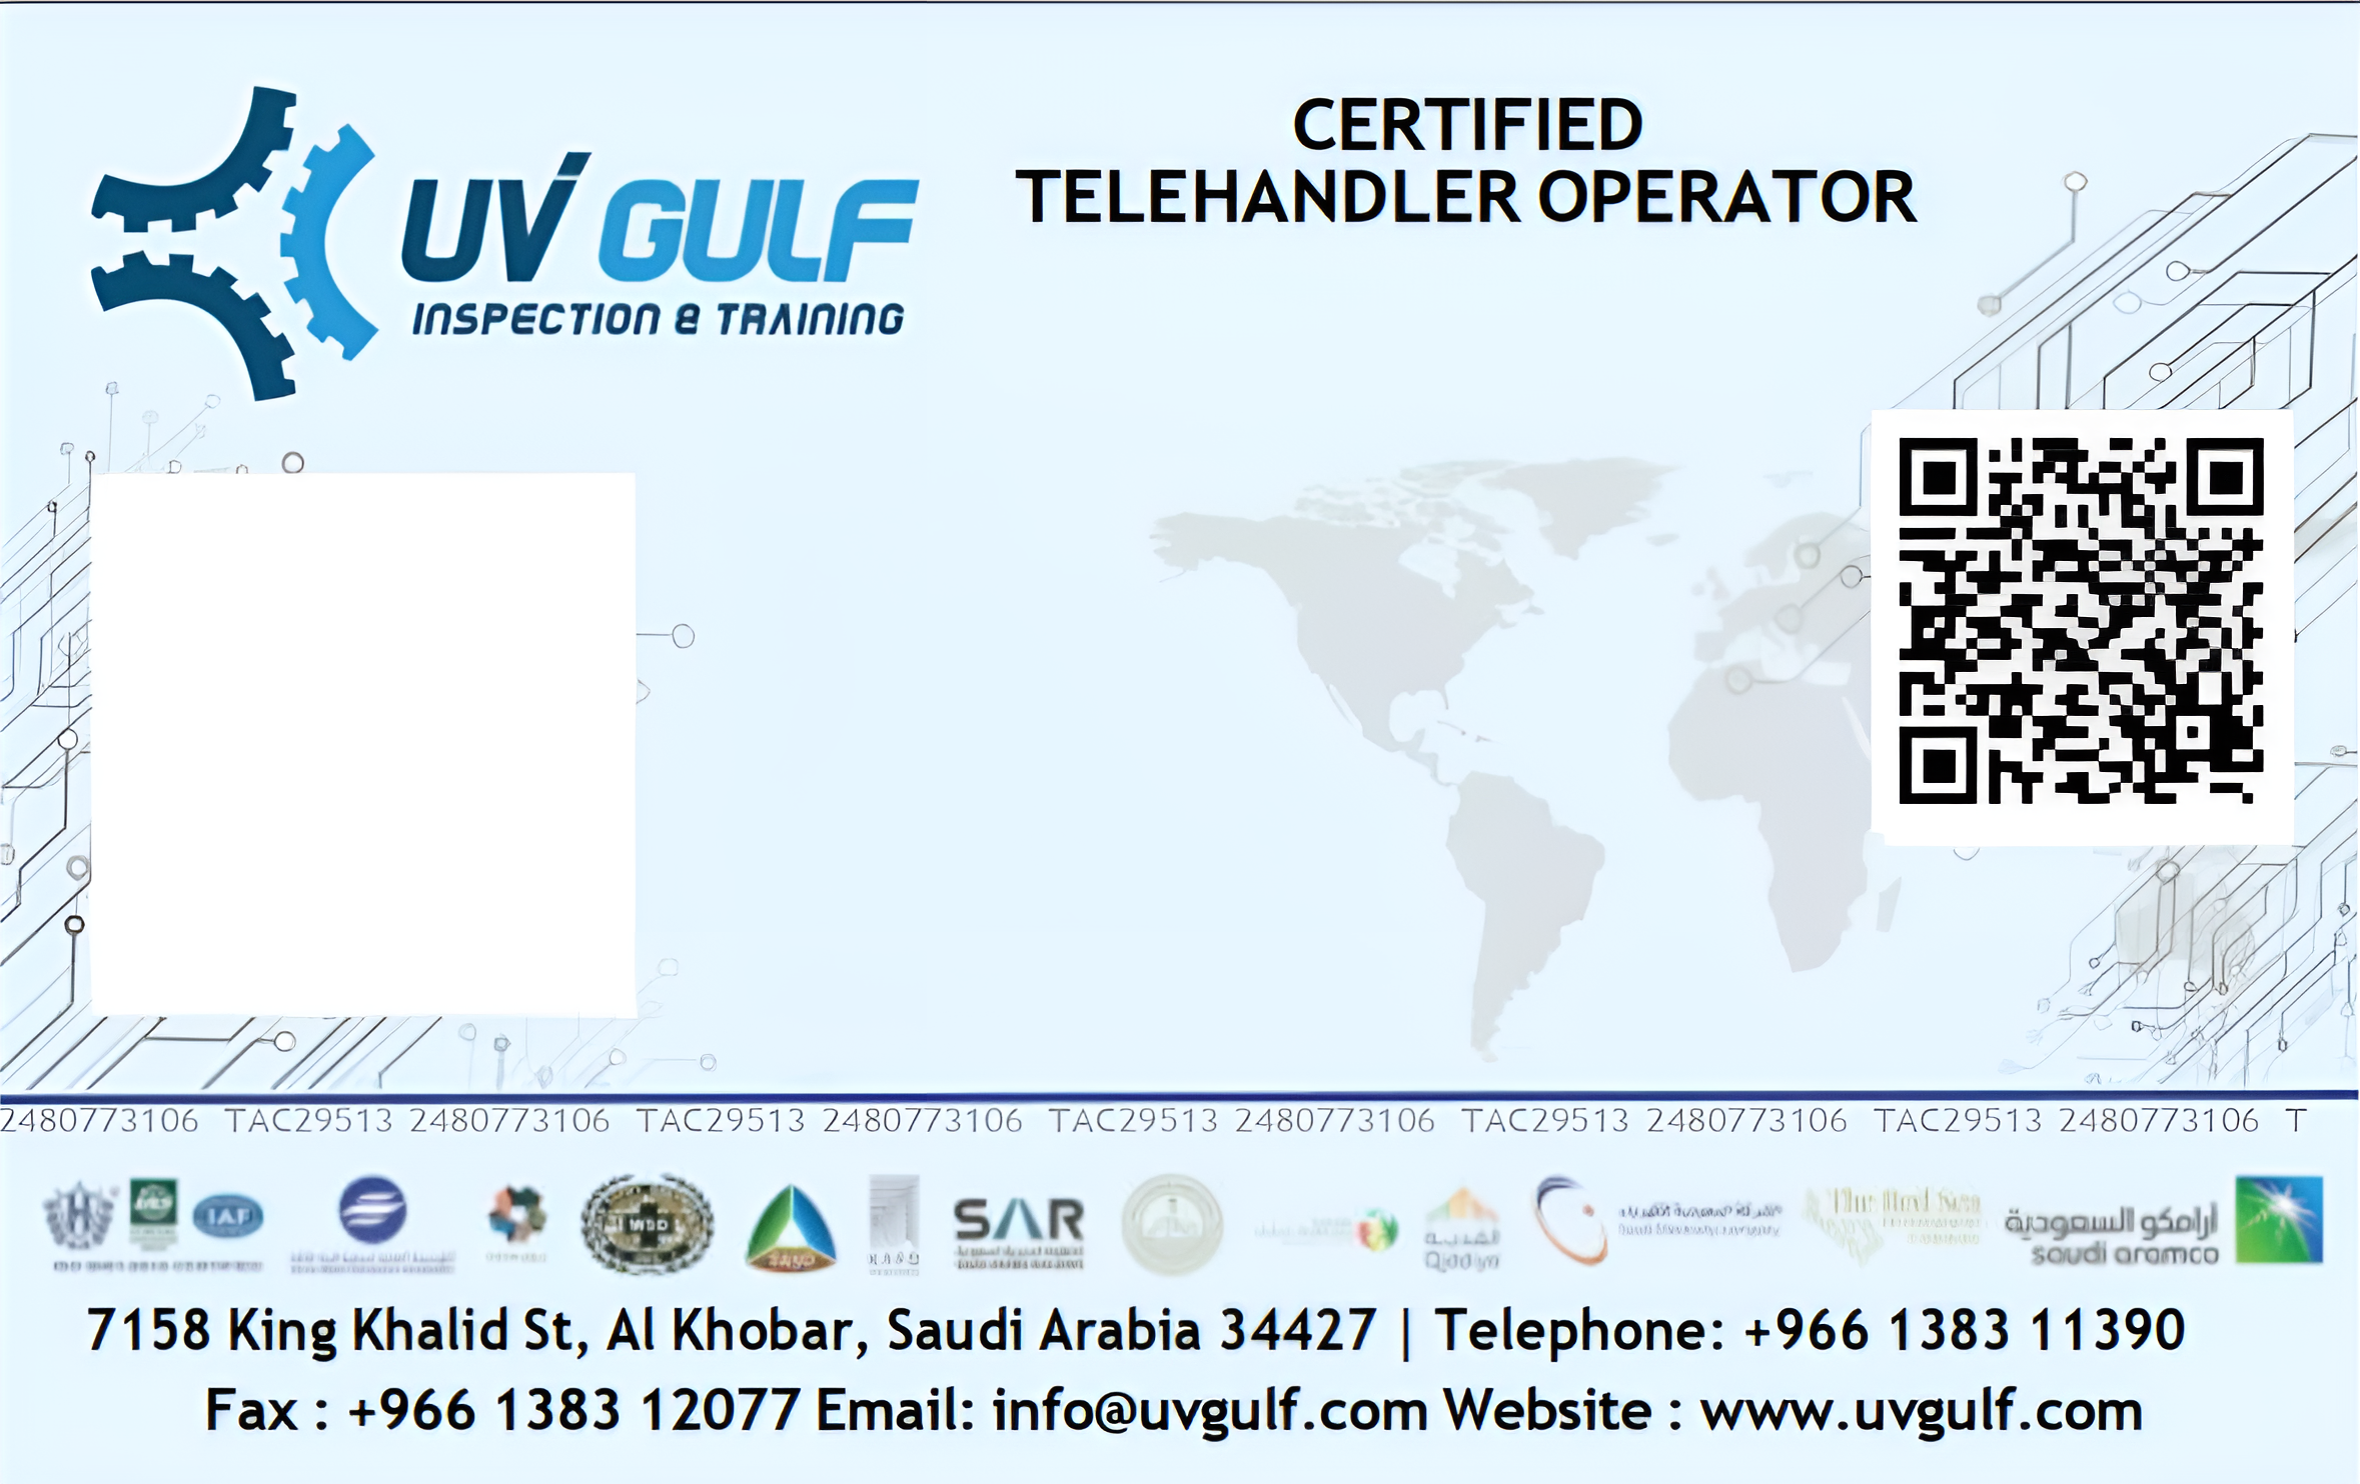
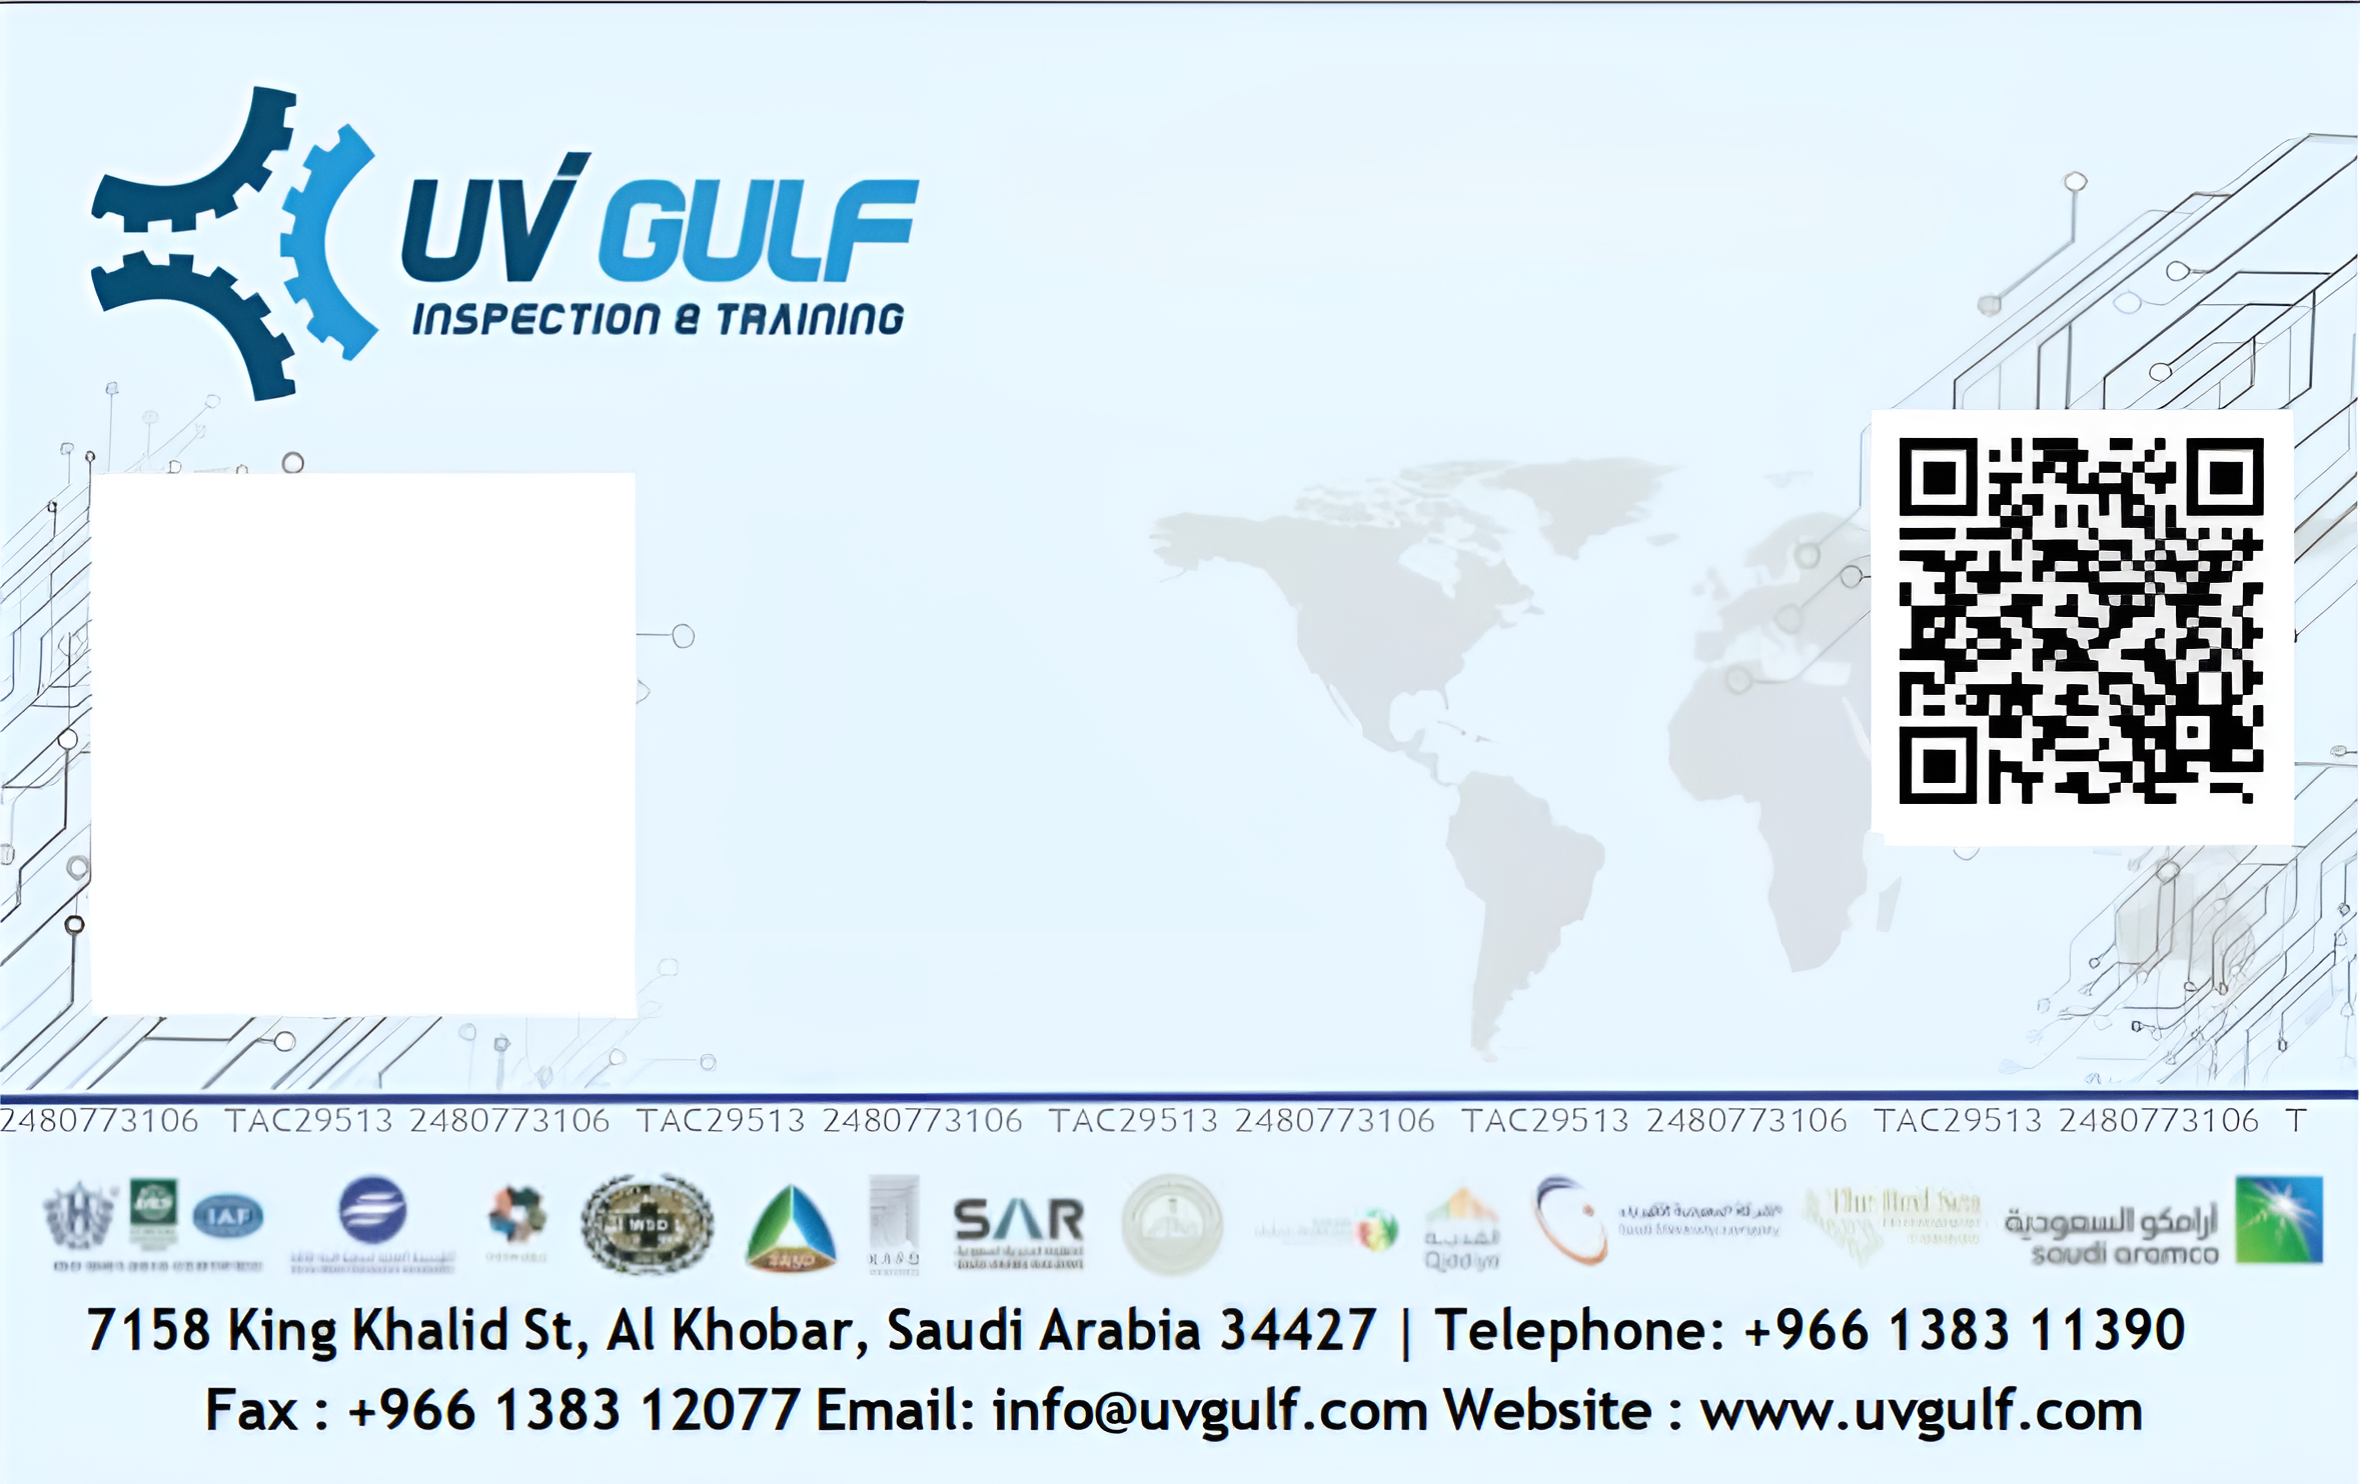
operator added

Changed region(s): [[0.4331, 0.062, 0.8352, 0.155]]

diff --git a/templates/certification_list.html b/templates/certification_list.html
@@ -20,6 +20,7 @@
     <style>
       body {
         font-family: "Roboto", sans-serif;
+        letter-spacing: 0.8px;
       }
 
       .card_text {
@@ -79,6 +80,7 @@
             <th>Picture</th>
             <th>Name</th>
             <th>ID Number</th>
+            <th>Operator</th>
             <th>Issued Date</th>
             <th>Expiry Date</th>
             <th>Company</th>
@@ -106,6 +108,7 @@
             </td>
             <td>{{ cert.name }}</td>
             <td>{{ cert.id_number }}</td>
+            <td>{{ cert.operator }}</td>
             <td>{{ cert.issued_date }}</td>
             <td>{{ cert.expiry_date }}</td>
             <td>{{ cert.company }}</td>
@@ -127,6 +130,7 @@
                 class="btn btn-dark download-btn"
                 onclick="downloadCardAsPDF(
                     '{{ cert.tac_number }}',
+                    '{{ cert.operator}}',
                     '{{ cert.name }}',
                     '{{ cert.company }}',
                     '{{ cert.project }}',
@@ -167,6 +171,7 @@
     <script>
       function downloadCardAsPDF(
         tacNumber,
+        operator,
         name,
         company,
         project,
@@ -208,6 +213,8 @@
         frontCard.style.backgroundSize = "contain";
         frontCard.innerHTML = `
                   <img src="${logo}" style="position: absolute; top: 28px; left: 21px; width: 216px; height: 86px;" />
+                  <p  style="position: absolute; top: 15px; right: 126px;color:black;font-size:18px;"><strong>CERTIFIED</strong></p>
+                  <p  style="position: absolute; top: 35px; right: 50px;color:black;width:240px;text-align: center;background-color:;font-size:18px;"><strong>${operator}</strong></p>
 
           <p  style="position: absolute; top: 95px; left: 56px;color:red;"><strong>${tacNumber}</strong></p>
           
@@ -221,7 +228,7 @@
          </div>
 
           <img src="${profilePicUrl}" style="position: absolute; top: 138px; left: 31px; width: 126px; height: 124px;" />
-          <p  style="position: absolute; top: 240px; left: 48px;color:white;font-size:8px;font-weight:200;"><strong>${idNumber} / ${tacNumber}</strong></p>
+          <p  style="position: absolute; top: 240px; left: 44px;color:white;font-size:8px;font-weight:200;"><strong>${idNumber} / ${tacNumber}</strong></p>
           <img src="${qrCodeUrl}" style="position: absolute; top: 115px; right: 18px; width: 120px; " />
           <p style="position: absolute; top: 283px; left: 0px; font-size: 8px; font-weight: 200; background-color: #E9F8FF; color: grey; width: 100%; white-space: nowrap; overflow: hidden; text-overflow: ellipsis;">
              ${idNumber}   ${tacNumber}   ${idNumber}   ${tacNumber}   ${idNumber}   ${tacNumber}   ${idNumber}   ${tacNumber}   ${idNumber}   ${tacNumber}   ${idNumber}   ${tacNumber}   ${idNumber}   ${tacNumber}

diff --git a/qr/views.py b/qr/views.py
@@ -7,6 +7,7 @@ from django.http import HttpResponse
 from django.contrib.auth import authenticate, login, logout
 from django.contrib.auth.decorators import login_required
 from django.contrib import messages
+from qrcode.constants import ERROR_CORRECT_L
 
 @login_required
 def add_certification(request):
@@ -25,6 +26,7 @@ def certification_list(request):
     certifications = OperatorCertification.objects.all()
     return render(request, 'certification_list.html', {'certifications': certifications})
 
+
 def generate_qr_code(request, tac_number):
     # Retrieve the certificate using the TAC number
     certificate = get_object_or_404(OperatorCertification, tac_number=tac_number)
@@ -32,12 +34,22 @@ def generate_qr_code(request, tac_number):
     # Generate a URL to the certificate details page
     certificate_url = request.build_absolute_uri(f'/certificate/{tac_number}/')
 
-    # Generate QR code with the URL to the certificate
-    img = qrcode.make(certificate_url)
+    # Generate QR code with reduced border
+    qr = qrcode.QRCode(
+        version=1,
+        error_correction=ERROR_CORRECT_L,
+        box_size=10,
+        border=1  # Lower border size to reduce white space
+    )
+    qr.add_data(certificate_url)
+    qr.make(fit=True)
+
+    # Generate the image
+    img = qr.make_image(fill_color="black", back_color="white")
 
     # Save the image to a BytesIO object
     qr_io = BytesIO()
-    img.save(qr_io)
+    img.save(qr_io, format='PNG')
     qr_io.seek(0)
 
     # Return the image as an HTTP response

diff --git a/qr/migrations/0004_operatorcertification_operator.py b/qr/migrations/0004_operatorcertification_operator.py
@@ -1,0 +1,19 @@
+# Generated by Django 5.2 on 2025-04-29 12:02
+
+from django.db import migrations, models
+
+
+class Migration(migrations.Migration):
+
+    dependencies = [
+        ('qr', '0003_operatorcertification_profile_pic'),
+    ]
+
+    operations = [
+        migrations.AddField(
+            model_name='operatorcertification',
+            name='operator',
+            field=models.CharField(default=1, max_length=100),
+            preserve_default=False,
+        ),
+    ]

diff --git a/qr/models.py b/qr/models.py
@@ -3,6 +3,7 @@ from django.db import models
 
 class OperatorCertification(models.Model):
     tac_number = models.CharField(max_length=20, unique=True)
+    operator = models.CharField(max_length=100)
     name = models.CharField(max_length=100)
     id_number = models.CharField(max_length=50, unique=True)
     issued_date = models.DateField()
